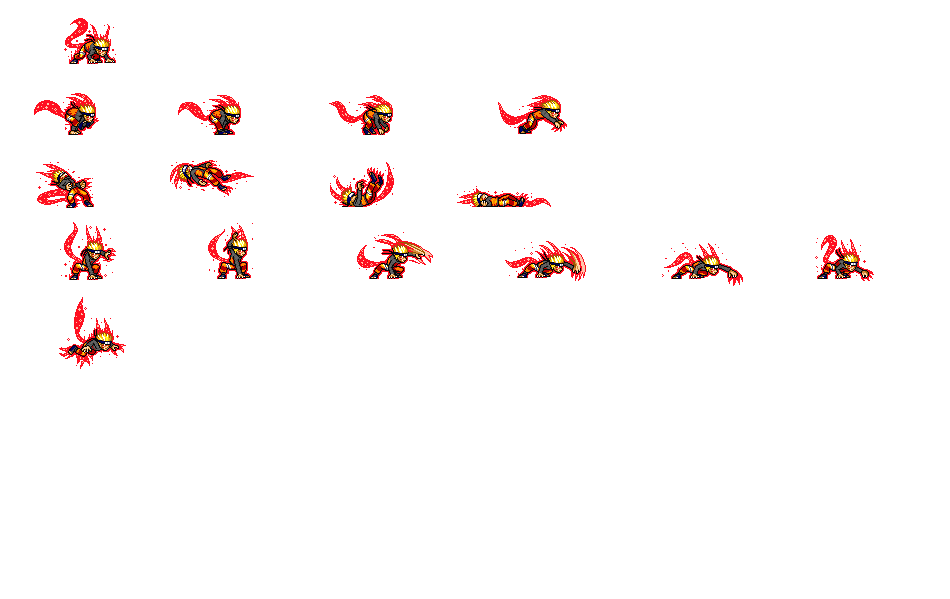
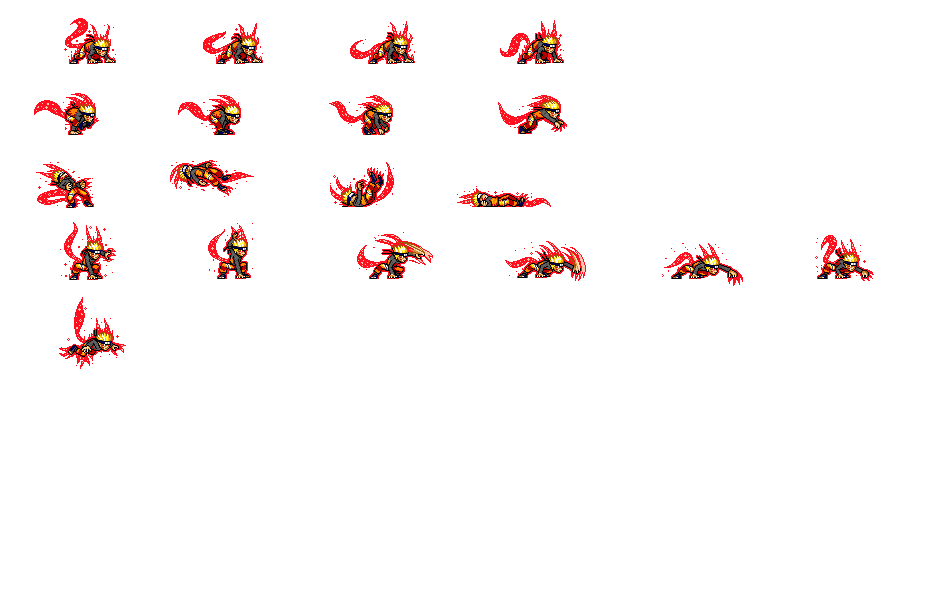
bug naru immob

Changed region(s): [[0.5189, 0.0301, 0.6105, 0.1202], [0.3663, 0.0301, 0.4579, 0.1202], [0.2137, 0.0301, 0.2747, 0.1202]]

diff --git a/GameMenu/GameMenu/GameMenu/IA/Stalker.cs b/GameMenu/GameMenu/GameMenu/IA/Stalker.cs
@@ -157,7 +157,21 @@ namespace Umea_rana
                             }
                         }
                     }
-                    else 
+                    else if (attaque == false && _speed == 0)
+                    {
+                        FrameLine = 1;
+                        this.Timer++;
+                        if (this.Timer == this.AnimationSpeed)
+                        {
+                            this.Timer = 0;
+                            this.FrameColumn++;
+                            if (FrameColumn > 4)
+                            {
+                                FrameColumn = 1;
+                            }
+                        }
+                    }
+                    else
                     {
                         FrameLine = 2;
                         this.Timer++;
@@ -179,7 +193,8 @@ namespace Umea_rana
                     this.Timer++;
                     if (FrameColumn == 4)
                     {
-
+                        FrameColumn = 1;
+                        FrameLine = 1;
                     }
                     else if (FrameColumn > 4)
                     {
@@ -214,6 +229,21 @@ namespace Umea_rana
                             this.Timer = 0;
                             this.FrameColumn++;
                             if (FrameColumn > 6)
+                            {
+                                FrameColumn = 1;
+                            }
+                        }
+                    }
+                    else if (attaque == false && _speed == 0)
+                    {
+                        
+                        FrameLine = 1;                        
+                        this.Timer++;
+                        if (this.Timer == this.AnimationSpeed)
+                        {
+                            this.Timer = 0;
+                            this.FrameColumn++;
+                            if (FrameColumn > 4)
                             {
                                 FrameColumn = 1;
                             }
